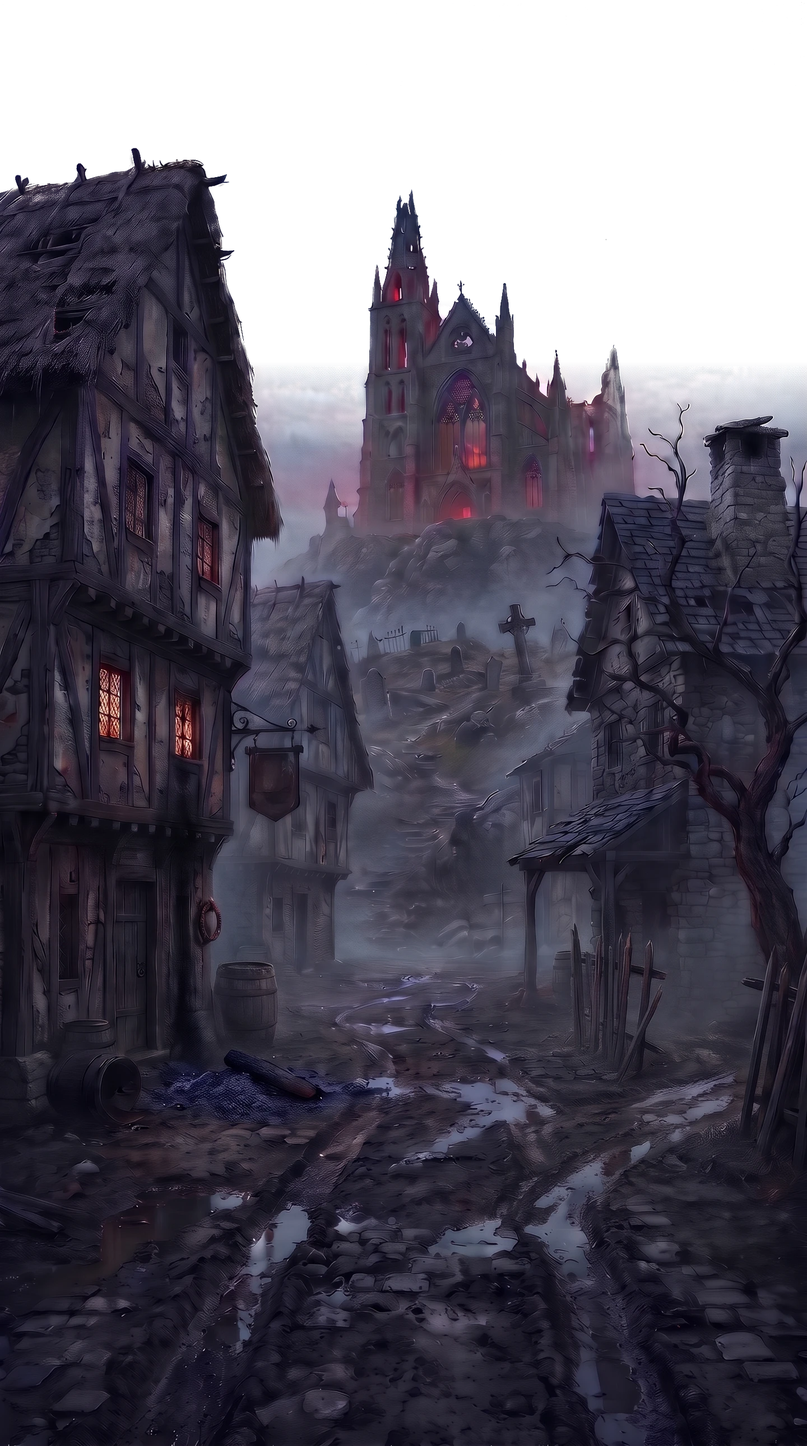
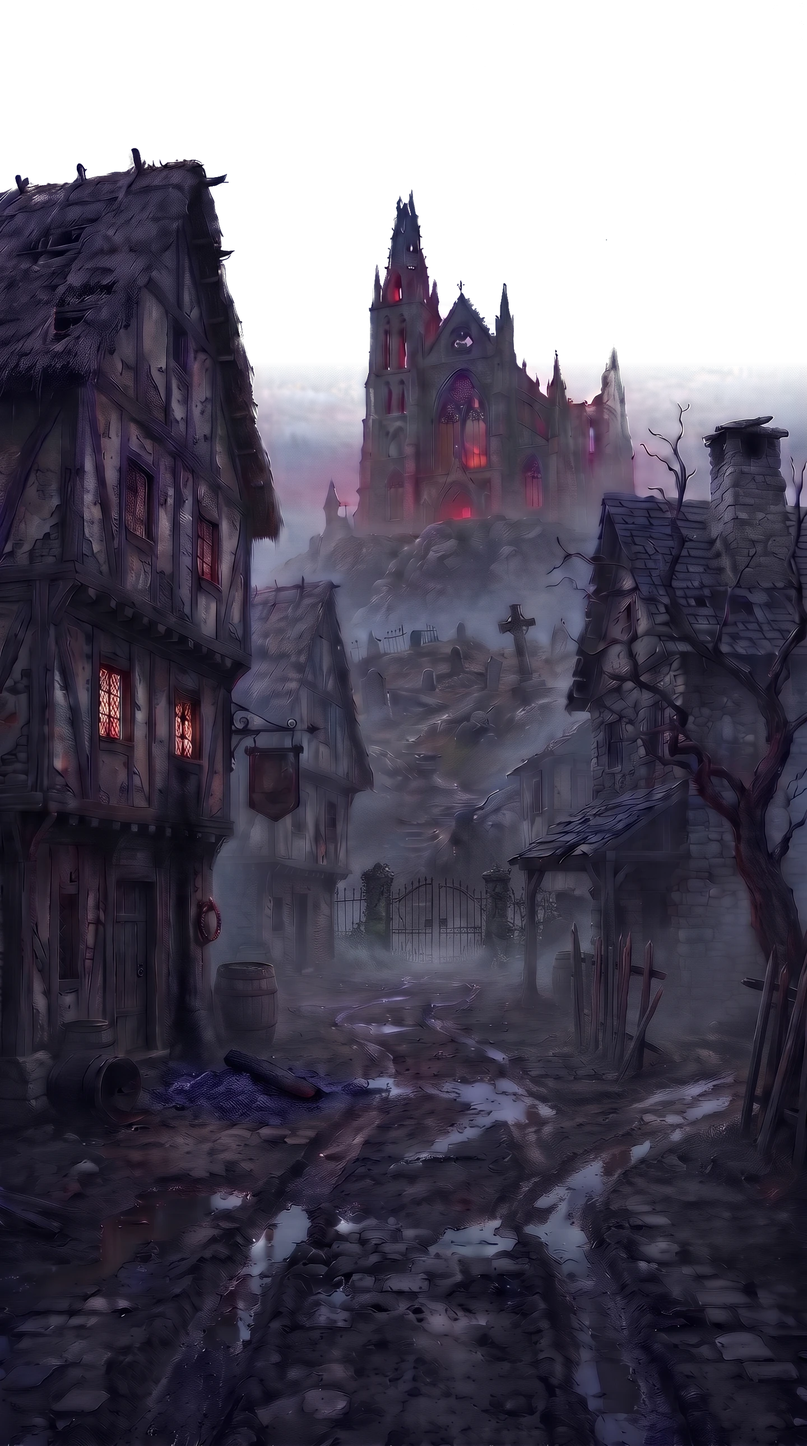
Tristram's rue gets a third retouch: a small closed gate at the foot of the cemetery, in the fog, behind the house on the right and the farthest house on the left. The background and its layers (sky, fire, glow) are repainted, the inn's door and the barrel are boxed again, and the gate becomes an ob

diff --git a/packages/engine/src/scenes/play.ts b/packages/engine/src/scenes/play.ts
@@ -151,7 +151,7 @@ export const playGame =
         return { ...state, intro: false };
       case "use": {
         const { object } = action;
-        const { label, text, search, exit, sets } = action.action;
+        const { text, search, exit, sets } = action.action;
         const raised =
           sets === undefined || state.flags.includes(sets)
             ? state
@@ -159,7 +159,8 @@ export const playGame =
         const to = exit === undefined ? undefined : exitTo(game, raised, exit);
         if (to !== undefined) return enter(game, raised, to);
         if (search) return { ...raised, searching: object };
-        return { ...raised, narration: narrate(raised, label, text ?? "") };
+        // What the player finds out is a toast, as an item taken.
+        return text ? { ...raised, toast: toastOf(raised, text) } : raised;
       }
       case "exit": {
         const to = exitTo(game, state, action.exit);
